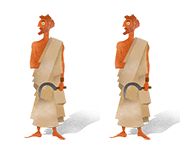
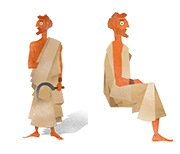
Added final sitting figures and new theatre background

diff --git a/game_2/assets/css/styles.css b/game_2/assets/css/styles.css
@@ -739,7 +739,7 @@ a.footer:hover {
   border: dotted 2px #ff0000;
 }
 #container .screen#level_2 #positions .position.no_border {
-  border: 0px;
+  border: dotted 2px transparent;
 }
 #container .screen#level_2 #positions .position .figure {
   cursor: pointer!important;
@@ -755,13 +755,13 @@ a.footer:hover {
   left: 0 !important;
 }
 #container .screen#level_2 #positions .position #f1 {
-  background: transparent url("../img/f1.png") 0px 0;
+  background: transparent url("../img/f1.png") -90px 0;
 }
 #container .screen#level_2 #positions .position #f2 {
-  background: transparent url("../img/f2.png") 0px 0;
+  background: transparent url("../img/f2.png") -90px 0;
 }
 #container .screen#level_2 #positions .position #f3 {
-  background: transparent url("../img/f3.png") 0px 0;
+  background: transparent url("../img/f3.png") -90px 0;
 }
 #container .screen#level_2 #positions .position #f4 {
   background: transparent url("../img/f4.png") -90px 0;
@@ -774,33 +774,33 @@ a.footer:hover {
 }
 #container .screen#level_2 #positions #pos6 {
   position: absolute;
-  top: 230px;
-  left: 0;
+  top: 247px;
+  left: 1px;
 }
 #container .screen#level_2 #positions #pos5 {
   position: absolute;
-  top: 290px;
-  left: 100px;
+  top: 312px;
+  left: 92px;
 }
 #container .screen#level_2 #positions #pos4 {
   position: absolute;
-  top: 380px;
-  left: 220px;
+  top: 382px;
+  left: 182px;
 }
 #container .screen#level_2 #positions #pos2 {
   position: absolute;
-  top: 450px;
-  left: 330px;
+  top: 481px;
+  left: 317px;
 }
 #container .screen#level_2 #positions #pos3 {
   position: absolute;
-  top: 520px;
-  left: 450px;
+  top: 547px;
+  left: 407px;
 }
 #container .screen#level_2 #positions #pos1 {
   position: absolute;
-  top: 550px;
-  left: 550px;
+  top: 578px;
+  left: 497px;
 }
 #container .screen#level_2 #figures {
   position: absolute;

diff --git a/game_2/assets/css/styles.less b/game_2/assets/css/styles.less
@@ -200,21 +200,21 @@ a {
 			#positions { .absPos(0,0); .z(50);
 				.position { .active; width:90px; height:154px; border:dotted 2px @white; .transition(all .2s ease-in-out);
 					&:hover { border:dotted 2px @red; }
-					&.no_border { border:0px; }
+					&.no_border { border:dotted 2px transparent; }
 					.figure { .active; width:90px; height:154px; margin:0; .shadowed(0,0,0); .absPos(0,0)!important; }
-					#f1 { background:transparent url("../img/f1.png") 0px 0; }
-					#f2 { background:transparent url("../img/f2.png") 0px 0; }
-					#f3 { background:transparent url("../img/f3.png") 0px 0; }
+					#f1 { background:transparent url("../img/f1.png") -90px 0; }
+					#f2 { background:transparent url("../img/f2.png") -90px 0; }
+					#f3 { background:transparent url("../img/f3.png") -90px 0; }
 					#f4 { background:transparent url("../img/f4.png") -90px 0; }
 					#f5 { background:transparent url("../img/f5.png") -90px 0; }
 					#f6 { background:transparent url("../img/f6.png") -90px 0; }
 				}
-				#pos6 { .absPos(230px,0); }
-				#pos5 { .absPos(290px,100px); }
-				#pos4 { .absPos(380px,220px); }
-				#pos2 { .absPos(450px,330px); }
-				#pos3 { .absPos(520px,450px); }
-				#pos1 { .absPos(550px,550px); }
+				#pos6 { .absPos(247px,1px); }
+				#pos5 { .absPos(312px,92px); }
+				#pos4 { .absPos(382px,182px); }
+				#pos2 { .absPos(481px,317px); }
+				#pos3 { .absPos(547px,407px); }
+				#pos1 { .absPos(578px,497px); }
 			}
 			#figures { .absPosRight(25px,25px); .z(25); width:200px;
 				.figure { .active; width:90px; height:154px; .visible(inline-block); margin:0 10px 10px 0; .shadowed(0,2px,5px); background-size:cover; }

diff --git a/game_2/assets/js/functions.js b/game_2/assets/js/functions.js
@@ -30,7 +30,7 @@ $(window).load(function() {
 		if (e.keyCode == 27 /* escape */ || e.keyCode == 13 /* enter */) { hide_help(); hide_message(); hide_calendar(); }
 	}).keydown(function(e) {
 		if(!(e.keyCode == 13 && e.metaKey)) return;
-		goto_screen("level_1"); show_game();
+		goto_screen("level_1"); show_game(); /* game_solution(); */
 	});
 	disableHover();
 	setTimeout(function() { $("#loader").fadeOut(500, function() { $(this).remove(); }); }, 500);			
@@ -164,6 +164,9 @@ function reset_game(everything) {
 	}
 }
 
+function game_solution() {
+	$(".figure").each(function() { var id = $(this).attr("id").replace("f",""); $("#pos" + id).append($(this)); });
+}
 function get_figure_name(figure_id) {
 	var f_tooltip = "";
 	$.each(game_data.figures, function(i,v) { if (v.id == figure_id) { var f_tooltip = $(eval("v.text." + lang)).eq(0).text(); $("#" + figure_id).attr("theTitle", f_tooltip).mousedown(function() { hideddrivetip(); }); } });	
